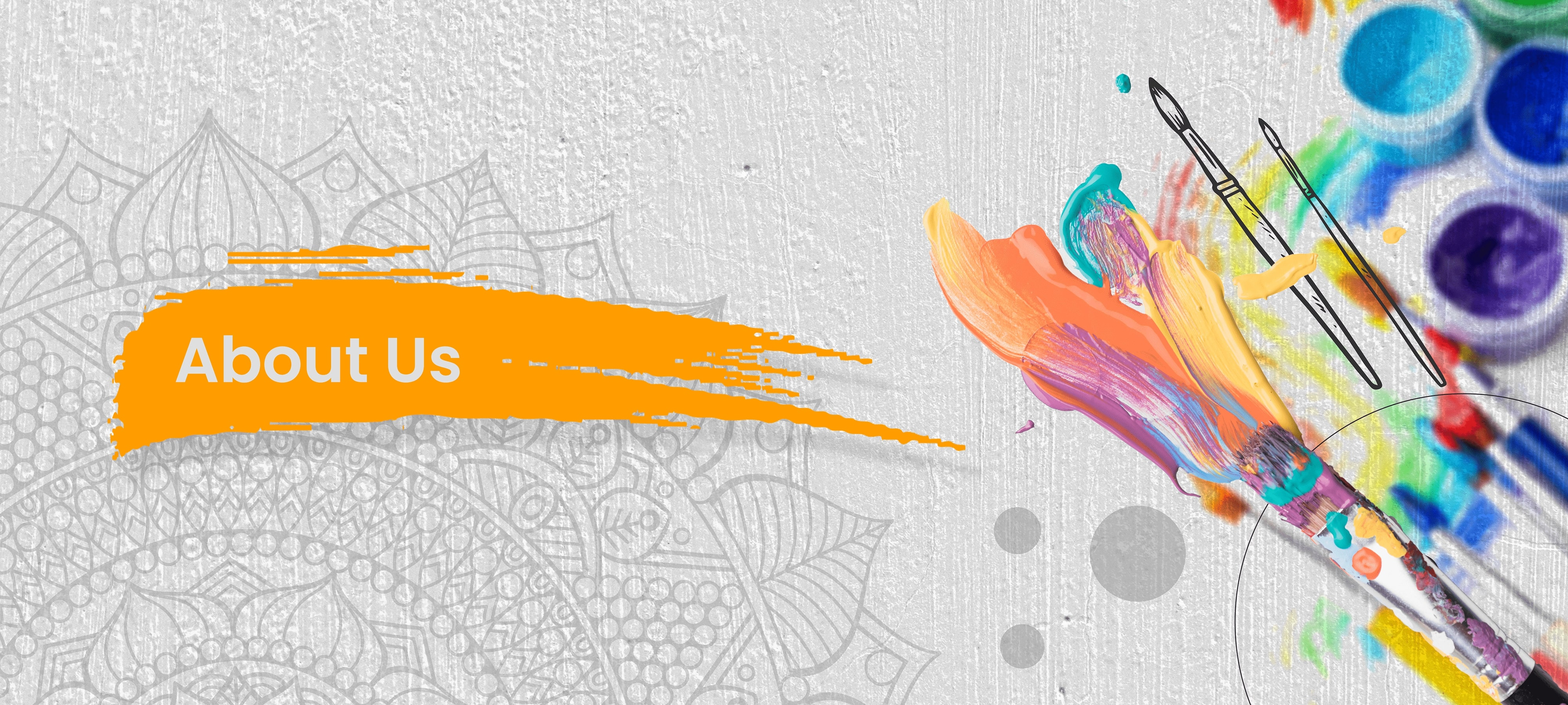
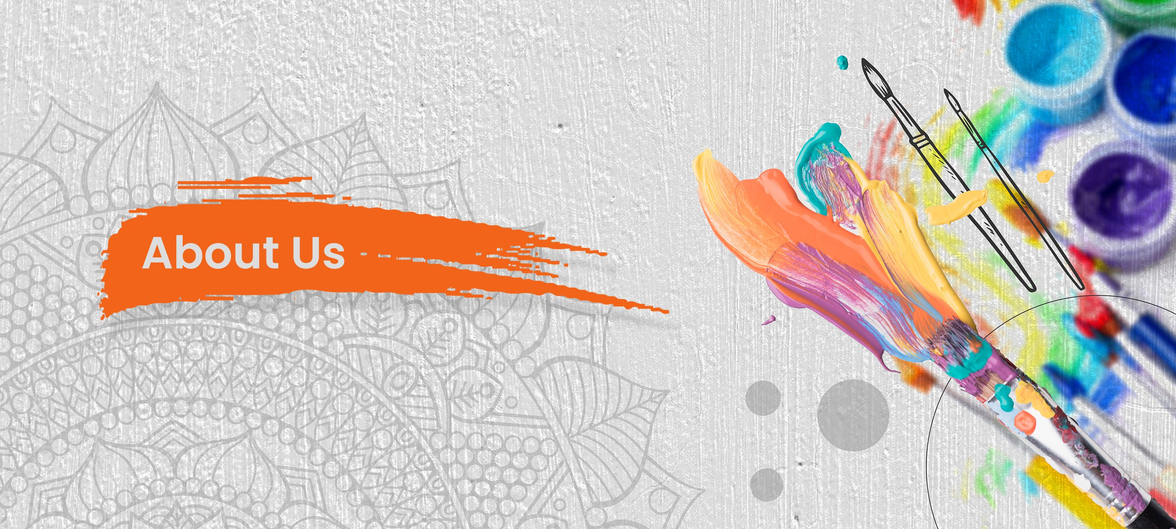
change header images and make responsive

Changed region(s): [[0.062, 0.3111, 0.62, 0.6533]]

diff --git a/css/style.css b/css/style.css
@@ -197,30 +197,39 @@ body {
 
 .about-header__img {
   width: 100%;
-  object-fit: contain; }
+  height: 100%; }
 
 .about-header__links {
+  margin-top: -10%;
+  margin-left: 10%;
+  margin-bottom: 10%;
   display: flex;
-  gap: 2rem;
-  justify-content: center;
-  margin-top: 3rem;
-  flex-wrap: wrap; }
+  gap: 5rem; }
+  @media (max-width: 59.375em) {
+    .about-header__links {
+      gap: 2rem; } }
+  @media (max-width: 75em) {
+    .about-header__links {
+      gap: 1rem; } }
 
 .about-header__link {
   text-decoration: none;
-  font-size: 1.5rem;
+  font-size: 1.8rem;
   color: #fff;
   border-radius: 5px;
   background-image: linear-gradient(#ffb032 0%, #F26419 21%);
-  padding: 1rem 3rem;
+  padding: 1rem 4rem;
   transition: 0.5s;
   background-size: 200% auto;
-  display: block;
   text-align: center; }
+  @media (max-width: 75em) {
+    .about-header__link {
+      font-size: 1.6rem;
+      padding: 1rem 2rem; } }
   @media (max-width: 37.5em) {
     .about-header__link {
-      padding: 1rem 2rem;
-      font-size: 1.3rem; } }
+      padding: .5rem 1rem;
+      font-size: 1.2rem; } }
 
 .about {
   text-align: center; }
@@ -271,30 +280,39 @@ body {
 
 .competitions-header__img {
   width: 100%;
-  object-fit: contain; }
+  height: 100%; }
 
 .competitions-header__links {
+  margin-top: -10%;
+  margin-left: 10%;
+  margin-bottom: 10%;
   display: flex;
-  gap: 2rem;
-  justify-content: center;
-  margin-top: 3rem;
-  flex-wrap: wrap; }
+  gap: 5rem; }
+  @media (max-width: 59.375em) {
+    .competitions-header__links {
+      gap: 2rem; } }
+  @media (max-width: 75em) {
+    .competitions-header__links {
+      gap: 1rem; } }
 
 .competitions-header__link {
   text-decoration: none;
-  font-size: 1.5rem;
+  font-size: 1.8rem;
   color: #fff;
   border-radius: 5px;
-  background-image: linear-gradient(#7e81ff 0%, #0161af 51%);
-  padding: 1rem 3rem;
+  background-image: linear-gradient(#ffb032 0%, #F26419 21%);
+  padding: 1rem 4rem;
   transition: 0.5s;
   background-size: 200% auto;
-  box-shadow: 0 0 20px #eee;
-  display: block; }
+  text-align: center; }
+  @media (max-width: 75em) {
+    .competitions-header__link {
+      font-size: 1.6rem;
+      padding: 1rem 2rem; } }
   @media (max-width: 37.5em) {
     .competitions-header__link {
-      padding: 1rem 2rem;
-      font-size: 1.3rem; } }
+      padding: .5rem 1rem;
+      font-size: 1.2rem; } }
 
 .competitions__heading {
   color: #F26419;
@@ -382,30 +400,39 @@ body {
 
 .gallery-header__img {
   width: 100%;
-  background-size: contain; }
+  height: 100%; }
 
 .gallery-header__links {
+  margin-top: -10%;
+  margin-left: 10%;
+  margin-bottom: 10%;
   display: flex;
-  gap: 2rem;
-  justify-content: center;
-  margin-top: 3rem;
-  flex-wrap: wrap; }
+  gap: 5rem; }
+  @media (max-width: 59.375em) {
+    .gallery-header__links {
+      gap: 2rem; } }
+  @media (max-width: 75em) {
+    .gallery-header__links {
+      gap: 1rem; } }
 
 .gallery-header__link {
   text-decoration: none;
-  font-size: 1.5rem;
+  font-size: 1.8rem;
   color: #fff;
   border-radius: 5px;
   background-image: linear-gradient(#ffb032 0%, #F26419 21%);
-  padding: 1rem 3rem;
+  padding: 1rem 4rem;
   transition: 0.5s;
   background-size: 200% auto;
-  display: block;
   text-align: center; }
+  @media (max-width: 75em) {
+    .gallery-header__link {
+      font-size: 1.6rem;
+      padding: 1rem 2rem; } }
   @media (max-width: 37.5em) {
     .gallery-header__link {
-      padding: 1rem 2rem;
-      font-size: 1.3rem; } }
+      padding: .5rem 1rem;
+      font-size: 1.2rem; } }
 
 .gallery {
   display: grid;

diff --git a/sass/pages/About/_header.scss b/sass/pages/About/_header.scss
@@ -1,46 +1,45 @@
 .about-header {
-
+    
     &__img {
         width: 100%;
-        object-fit: contain;
+        height: 100%;
     }
 
     &__links {
+        margin-top: -10%;
+        margin-left: 10%;
+        margin-bottom: 10%;
         display: flex;
-        gap: 2rem;
-        justify-content: center;
-        margin-top: 3rem;
-        flex-wrap: wrap;
-        // margin-left: 10rem;
-        // margin-top: -10rem;
+        gap: 5rem;
 
-        // @include respond(tab-land) {
-        //     margin-left: 8rem;
-        //     margin-top: -8rem;
-        // }
+        @include respond(tab-port) {
+            gap: 2rem;
+        }
 
-        // @include respond(tab-port) {
-        //     margin-left: 6rem;
-        //     margin-top: -6rem;
-        // }
+        @include respond(tab-land) {
+            gap: 1rem;
+        }
     }
 
     &__link {
         text-decoration: none;
-        font-size: 1.5rem;
+        font-size: 1.8rem;
         color: $color-nutral-light;
-        // background-color: $color-primary-orange;
         border-radius: 5px;
         background-image: linear-gradient(#ffb032 0%, $color-primary-orange  21%);
-        padding: 1rem 3rem;
+        padding: 1rem 4rem;
         transition: 0.5s;
         background-size: 200% auto;
-        display: block;
         text-align: center;
 
-        @include respond(phone) {
+        @include respond(tab-land) {
+            font-size: 1.6rem;
             padding: 1rem 2rem;
-            font-size: 1.3rem;
+        }
+
+        @include respond(phone) {
+            padding: .5rem 1rem;
+            font-size: 1.2rem;
         }
     }
 }

diff --git a/sass/pages/Gallery/_header.scss b/sass/pages/Gallery/_header.scss
@@ -1,45 +1,44 @@
 .gallery-header {
     &__img {
         width: 100%;
-        background-size: contain;
+        height: 100%;
     }
 
     &__links {
+        margin-top: -10%;
+        margin-left: 10%;
+        margin-bottom: 10%;
         display: flex;
-        gap: 2rem;
-        justify-content: center;
-        margin-top: 3rem;
-        flex-wrap: wrap;
-        // margin-left: 10rem;
-        // margin-top: -10rem;
+        gap: 5rem;
 
-        // @include respond(tab-land) {
-        //     margin-left: 8rem;
-        //     margin-top: -8rem;
-        // }
+        @include respond(tab-port) {
+            gap: 2rem;
+        }
 
-        // @include respond(tab-port) {
-        //     margin-left: 6rem;
-        //     margin-top: -6rem;
-        // }
+        @include respond(tab-land) {
+            gap: 1rem;
+        }
     }
 
     &__link {
         text-decoration: none;
-        font-size: 1.5rem;
+        font-size: 1.8rem;
         color: $color-nutral-light;
-        // background-color: $color-primary-orange;
         border-radius: 5px;
         background-image: linear-gradient(#ffb032 0%, $color-primary-orange  21%);
-        padding: 1rem 3rem;
+        padding: 1rem 4rem;
         transition: 0.5s;
         background-size: 200% auto;
-        display: block;
         text-align: center;
 
-        @include respond(phone) {
+        @include respond(tab-land) {
+            font-size: 1.6rem;
             padding: 1rem 2rem;
-            font-size: 1.3rem;
+        }
+
+        @include respond(phone) {
+            padding: .5rem 1rem;
+            font-size: 1.2rem;
         }
     }
 }

diff --git a/sass/pages/Competitions/_header.scss b/sass/pages/Competitions/_header.scss
@@ -2,35 +2,44 @@
 
     &__img {
         width: 100%;
-        object-fit: contain;
+        height: 100%;
     }
 
     &__links {
+        margin-top: -10%;
+        margin-left: 10%;
+        margin-bottom: 10%;
         display: flex;
-        gap: 2rem;
-        justify-content: center;
-        margin-top: 3rem;
-        flex-wrap: wrap;
+        gap: 5rem;
+
+        @include respond(tab-port) {
+            gap: 2rem;
+        }
+
+        @include respond(tab-land) {
+            gap: 1rem;
+        }
     }
 
     &__link {
         text-decoration: none;
-        font-size: 1.5rem;
-        // padding: 1rem 3rem;
+        font-size: 1.8rem;
         color: $color-nutral-light;
-        // background-color: #0161af;
         border-radius: 5px;
-        background-image: linear-gradient(#7e81ff 0%, #0161af  51%);
-        padding: 1rem 3rem;
+        background-image: linear-gradient(#ffb032 0%, $color-primary-orange  21%);
+        padding: 1rem 4rem;
         transition: 0.5s;
         background-size: 200% auto;
-        box-shadow: 0 0 20px #eee;
-        display: block;
-         
+        text-align: center;
+
+        @include respond(tab-land) {
+            font-size: 1.6rem;
+            padding: 1rem 2rem;
+        }
 
         @include respond(phone) {
-            padding: 1rem 2rem;
-            font-size: 1.3rem;
+            padding: .5rem 1rem;
+            font-size: 1.2rem;
         }
     }
 }

diff --git a/about.html b/about.html
@@ -33,15 +33,12 @@
     </nav>
 
     <header class="about-header">
-        <img src="./img/About/header/hero.jpg" alt="Hero" class="about-header__img">
-    </header>
-
-    <div class="about-header__content">
+        <img src="./img/About/header/hero.jpg" alt="About" class="about-header__img">
         <div class="about-header__links">
             <a href="" class="about-header__link">Register Your School</a>
             <a href="" class="about-header__link">Download Brochur</a>
         </div>
-    </div>
+    </header>
 
     <main class="main">
         <section class="section section-about">

diff --git a/competitions.html b/competitions.html
@@ -34,14 +34,11 @@
 
     <header class="competitions-header">
         <img src="./img/Competitions/header/hero.jpg" alt="" class="competitions-header__img">
-    </header>
-    
-    <div class="competitions-header__content">
         <div class="competitions-header__links">
             <a href="" class="competitions-header__link">Register Your School</a>
             <a href="" class="competitions-header__link">Download Brochur</a>
         </div>
-    </div>
+    </header>
     <main class="main">
         <section class="section section-competitions">
             <div class="competitions">

diff --git a/gallery.html b/gallery.html
@@ -34,14 +34,13 @@
 
     <header class="gallery-header">
         <img src="./img/Gallery/header/hero.jpg" alt="Hero" class="gallery-header__img">
-    </header>
-    
-    <div class="gallery-header__content">
+        
         <div class="gallery-header__links">
             <a href="" class="gallery-header__link">Register Your School</a>
             <a href="" class="gallery-header__link">Download Brochur</a>
         </div>
-    </div>
+    </header>
+    
     <main class="main">
         <section class="section section-about">
             <div class="about">
